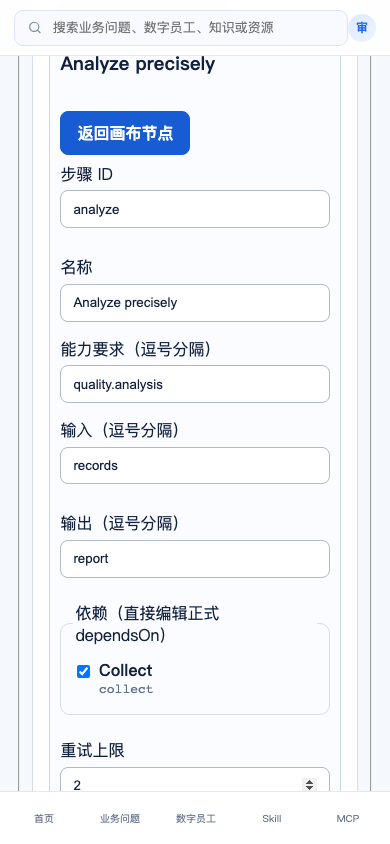
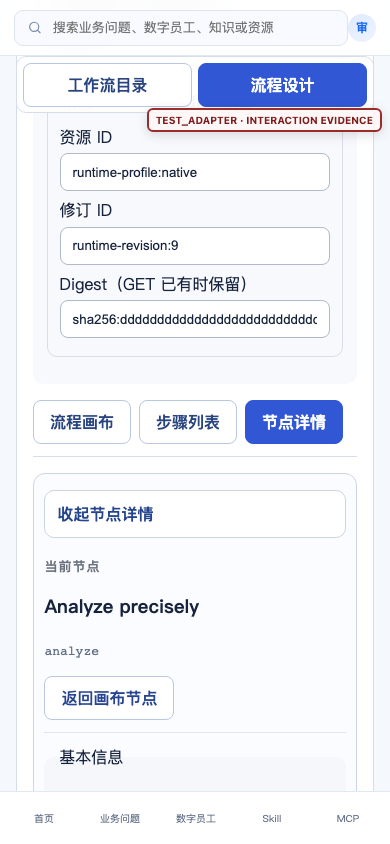
test(console): verify workflow designer responsive UX

Changed region(s): [[0.0308, 0.0616, 0.9846, 0.9242], [0.1231, 0.7085, 0.5538, 0.955]]

diff --git a/console/frontend/src/workflows/WorkflowWorkbenchPage.tsx b/console/frontend/src/workflows/WorkflowWorkbenchPage.tsx
@@ -57,7 +57,7 @@ export function WorkflowWorkbenchPage(){
     {!catalogCollapsed&&<><div className="workflow-catalog__filters"><label>搜索<input aria-label="搜索 Workflow Definition" value={query} placeholder="名称、说明或 ID" onChange={event=>{setQuery(event.target.value);setCatalogPage(0);preserveContext({query:event.target.value||null})}}/></label><label>生命周期<select aria-label="Workflow 生命周期筛选" value={filter} onChange={event=>{setFilter(event.target.value);setCatalogPage(0);preserveContext({lifecycle:event.target.value==="ALL"?null:event.target.value})}}><option value="ALL">全部</option><option value="DRAFT">草稿</option><option value="VALIDATED">已校验</option><option value="HUMAN_REVIEWED">已审核</option><option value="PUBLISHED">已发布</option></select></label></div>{filtered.length===0&&state==="READY"?<p>没有匹配的 Workflow Definition。</p>:<div className="workflow-catalog__items">{visibleDefinitions.map(item=>{const revision=item.definition.revisions.find(candidate=>candidate.revisionId===(item.definition.currentDraftRevisionId??item.definition.publishedRevisionId))??item.definition.revisions.at(-1);return <article className={`workflow-catalog__item${definition?.workflowDefinitionId===item.definition.workflowDefinitionId?" selected":""}`} key={item.definition.workflowDefinitionId}><button type="button" onClick={()=>requestSwitch(item.definition.workflowDefinitionId)}><span className="workflow-catalog__item-heading"><strong>{item.definition.name}</strong><span className="workflow-lifecycle-badge">{lifecycleLabel[item.definition.lifecycleState]??item.definition.lifecycleState}</span></span><span className="workflow-catalog__summary">摘要：{revision?.content.description||"暂无简介"}</span><small>适用修订 · {revision?.revisionId??"NO_REVISION"}</small></button><details><summary>查看技术 ID</summary><code>{item.definition.workflowDefinitionId}</code></details></article>})}</div>}<nav className="workflow-catalog-pagination" aria-label="Workflow 列表分页"><button type="button" disabled={currentCatalogPage<=0} onClick={()=>setCatalogPage(Math.max(0,currentCatalogPage-1))}>上一页</button><span>第 {currentCatalogPage+1} / {pageCount} 页</span><button type="button" disabled={currentCatalogPage>=pageCount-1} onClick={()=>setCatalogPage(Math.min(pageCount-1,currentCatalogPage+1))}>下一页</button></nav></>}
    </aside>
    <section className="workflow-workspace">
-    {builder?<section className="workflow-authoring" aria-label="Workflow authoring" aria-busy={savingEditor}><header className="workflow-authoring__header"><div><p className="eyebrow">草稿编辑</p><h2>{builderName||"新工作流"}</h2><p className={`workflow-dirty-state${hasUnsavedChanges?" is-dirty":""}`} role="status">{hasUnsavedChanges?"有未保存修改":"尚无未保存修改"}</p></div><button className="workflow-secondary-action" onClick={closeEditor}>关闭编写器并保留权威版本</button></header>{savingEditor&&<p role="status">正在保存当前编写器，提交内容已锁定。离开或关闭编写器不会取消后端保存。</p>}<fieldset disabled={savingEditor} aria-label="Workflow editor fields" onChangeCapture={event=>{if(editorLocked()){event.preventDefault();event.stopPropagation()}}} onClickCapture={event=>{if(editorLocked()){event.preventDefault();event.stopPropagation()}}}><label className="workflow-name-field">Workflow 名称<input value={builderName} maxLength={120} onChange={event=>{if(!editorLocked()){setBuilderName(event.target.value);setSaveNotice(null)}}}/></label><WorkflowBuilderPage content={builder} onChange={changeBuilder} isLocked={editorLocked} operationDirectory={operationDirectory} operationDirectoryState={operationDirectoryState} operationDirectoryReason={operationDirectoryReason}/><div className="module-actions workflow-savebar"><span>{hasUnsavedChanges?"准备保存当前完整定义":"可继续编辑或保存当前定义"}</span><button className="workflow-primary-action" disabled={state!=="READY"||!builderName.trim()} onClick={()=>void save()}>保存工作流草稿</button></div></fieldset></section>:!definition?<div className="empty-state workflow-workspace__empty"><h2>选择工作流</h2><p>从目录选择后，可查看步骤、精确资源绑定、修订与消费者。</p><button type="button" className="workflow-secondary-action workflow-mobile-catalog-shortcut" onClick={()=>setMobilePane("catalog")}>打开工作流目录</button></div>:<><header className="workflow-definition-header"><div><span className="workflow-lifecycle-badge">{lifecycleLabel[definition.lifecycleState]??definition.lifecycleState}<span className="workflow-technical-state">{definition.lifecycleState}</span></span><h2>{definition.name}</h2><p>{active?.content.description||"未提供用途说明"}</p></div><details><summary>查看 Workflow 技术 ID</summary><span className="technical-value">{definition.workflowDefinitionId}</span></details></header>
+    {builder?<section className="workflow-authoring" aria-label="Workflow authoring" aria-busy={savingEditor}><header className="workflow-authoring__header"><div><p className="eyebrow">草稿编辑</p><h2>{builderName||"新工作流"}</h2><p className={`workflow-dirty-state${hasUnsavedChanges?" is-dirty":""}`} role="status">{hasUnsavedChanges?"有未保存修改":"尚无未保存修改"}</p></div><div className="workflow-authoring__actions"><button className="workflow-primary-action workflow-mobile-save-action" disabled={state!=="READY"||!builderName.trim()} onClick={()=>void save()}>保存当前草稿</button><button className="workflow-secondary-action" onClick={closeEditor}>关闭编写器并保留权威版本</button></div></header>{savingEditor&&<p role="status">正在保存当前编写器，提交内容已锁定。离开或关闭编写器不会取消后端保存。</p>}<fieldset disabled={savingEditor} aria-label="Workflow editor fields" onChangeCapture={event=>{if(editorLocked()){event.preventDefault();event.stopPropagation()}}} onClickCapture={event=>{if(editorLocked()){event.preventDefault();event.stopPropagation()}}}><label className="workflow-name-field">Workflow 名称<input value={builderName} maxLength={120} onChange={event=>{if(!editorLocked()){setBuilderName(event.target.value);setSaveNotice(null)}}}/></label><WorkflowBuilderPage content={builder} onChange={changeBuilder} isLocked={editorLocked} operationDirectory={operationDirectory} operationDirectoryState={operationDirectoryState} operationDirectoryReason={operationDirectoryReason}/><div className="module-actions workflow-savebar"><span>{hasUnsavedChanges?"准备保存当前完整定义":"可继续编辑或保存当前定义"}</span><button className="workflow-primary-action" disabled={state!=="READY"||!builderName.trim()} onClick={()=>void save()}>保存工作流草稿</button></div></fieldset></section>:!definition?<div className="empty-state workflow-workspace__empty"><h2>选择工作流</h2><p>从目录选择后，可查看步骤、精确资源绑定、修订与消费者。</p><button type="button" className="workflow-secondary-action workflow-mobile-catalog-shortcut" onClick={()=>setMobilePane("catalog")}>打开工作流目录</button></div>:<><header className="workflow-definition-header"><div><span className="workflow-lifecycle-badge">{lifecycleLabel[definition.lifecycleState]??definition.lifecycleState}<span className="workflow-technical-state">{definition.lifecycleState}</span></span><h2>{definition.name}</h2><p>{active?.content.description||"未提供用途说明"}</p></div><details><summary>查看 Workflow 技术 ID</summary><span className="technical-value">{definition.workflowDefinitionId}</span></details></header>
     {active&&<section className="workflow-definition-body"><header className="workflow-section-heading"><div><p className="eyebrow">流程设计</p><h3>步骤与依赖 <small>Canonical DAG</small></h3></div>{draft&&<div className="module-actions workflow-lifecycle-actions"><button className="workflow-primary-action" disabled={state!=="READY"} onClick={startEdit}>编辑当前 Draft</button>{draft.state==="DRAFT"&&<button disabled={state!=="READY"||bindingValidationBlocked} aria-describedby={bindingValidationBlocked?"workflow-skill-validation-blocked":undefined} onClick={()=>void act(x=>validateWorkflowDefinition(x.workflowDefinitionId,x.aggregateVersion))}>Validate DAG and references</button>}{draft.state==="VALIDATED"&&<button disabled={state!=="READY"} onClick={()=>void act(x=>reviewWorkflowDefinition(x.workflowDefinitionId,x.aggregateVersion,draft.digest))}>Review exact Workflow digest</button>}{draft.state==="HUMAN_REVIEWED"&&review&&<button disabled={state!=="READY"} onClick={()=>void act(x=>publishWorkflowDefinition(x.workflowDefinitionId,x.aggregateVersion,draft.digest,review.reviewId))}>Publish immutable Workflow</button>}</div>}</header><WorkflowRevisionDesigner key={active.revisionId} content={active.content} selectedTaskId={selectedTask} onSelect={setSelectedTask} directory={operationDirectory} directoryState={operationDirectoryState}/>{selectedTask&&<p role="status">已选择 Definition 步骤：<span className="technical-value">{selectedTask}</span>。这不是运行状态。</p>}{draft?.state==="DRAFT"&&bindingValidationBlocked&&<p id="workflow-skill-validation-blocked" role="status">正式目录尚未返回与已保存 Skill revision、digest、operation 完全一致的合格身份。Draft 会保留，但页面不会把缺失或不合格 operation 提交为已验证。</p>}<details className="workflow-review-details"><summary>校验、绑定与修订详情</summary><section className="workflow-binding-review" aria-label="Workflow Skill operation binding review"><h3>Validate / review / publish 前绑定审查</h3>{active.content.tasks.map(task=><WorkflowSkillOperationBindingEditor key={task.taskId} task={task} readOnly directory={operationDirectory} directoryState={operationDirectoryState} directoryReason={operationDirectoryReason}/>)}<p>这里显示后端 GET 返回的实际绑定；历史无绑定版本保持未绑定，不会自动补写。</p></section><label>Exact revision digest<input readOnly value={active.digest}/></label><h4>生命周期证据</h4><p>Validation: {draft?.state!=="DRAFT"?"RECORDED":"REQUIRED"} · Human review: {review?.reviewId??"REQUIRED"} · Publication: {definition.publishedRevisionId??"NOT_PUBLISHED"}</p><p>绑定与发布不等于执行授权；本页不创建 Run、Task Run、Attempt、Plan 或 dispatch。</p></details></section>}
     {definition.publishedRevisionId&&!definition.currentDraftRevisionId&&<section className="workflow-successor-callout"><div><strong>此修订已发布并保持只读</strong><p>需要修改时，请创建正式后继草稿。</p></div><button className="workflow-primary-action" disabled={state!=="READY"} onClick={()=>void act(x=>successorWorkflowDefinition(x.workflowDefinitionId,x.aggregateVersion))}>Create Workflow successor</button></section>}<details className="workflow-history-details"><summary>关系、消费者与修订历史 <span>{definition.relationships.length} relationships · {definition.consumers.length} consumers</span></summary><ol>{definition.revisions.map(item=><li key={item.revisionId}>{item.state} · <span className="technical-value">{item.revisionId}</span> · digest {item.digest} · Skill operations {item.content.tasks.reduce((count,task)=>count+(task.skillOperationBindings?.length??0),0)}</li>)}</ol><WorkflowVersionComparison definition={definition}/><WorkflowTechnicalProjection projection={selected}/></details></>}
    </section>

diff --git a/console/frontend/src/styles/workflow-designer.css b/console/frontend/src/styles/workflow-designer.css
@@ -26,6 +26,8 @@
 .workflow-workbench__header p,
 .workflow-authoring__header p,
 .workflow-definition-header p { margin-block: .35rem; color: var(--workflow-muted); }
+.workflow-authoring__actions { display: flex; align-items: center; gap: .5rem; }
+.workflow-mobile-save-action { display: none; }
 .workflow-primary-action { color: #fff; border-color: #2449bd; background: #3157d5; font-weight: 700; }
 .workflow-secondary-action { color: #28458f; border-color: #b9c7e2; background: #fff; }
 
@@ -82,6 +84,8 @@
 .workflow-section-heading { align-items: center; }
 .workflow-section-heading h3 { margin-block: .2rem; }
 .workflow-section-heading small { color: #748097; font-weight: 500; }
+.workflow-lifecycle-actions button { color: #29457f; border-color: #b9c7e2; background: #fff; }
+.workflow-lifecycle-actions .workflow-primary-action { color: #fff; border-color: #2449bd; background: #3157d5; }
 .workflow-successor-callout { align-items: center; margin-top: 1rem; padding: 1rem; border-left: 4px solid #3157d5; border-radius: 8px; background: #eef3ff; }
 .workflow-successor-callout p { margin: .3rem 0 0; color: var(--workflow-muted); }
 
@@ -144,6 +148,7 @@
   padding-bottom: .75rem;
   border-bottom: 1px solid #d7deea;
 }
+.workflow-designer__tabs button { color: #29457f; border-color: #b9c7e2; background: #fff; }
 
 .workflow-designer__tabs [aria-selected="true"] {
   color: #fff;
@@ -185,7 +190,7 @@
 }
 .workflow-designer__inspector.is-collapsed { display: none; }
 
-.workflow-designer__close { float: right; margin: 0 0 .5rem .5rem; }
+.workflow-designer__close { float: right; margin: 0 0 .5rem .5rem; color: #24458c; border-color: #b8c6df; background: #fff; font-weight: 700; }
 .workflow-designer__show-inspector { max-width: 100%; margin-bottom: .6rem; color: #28458f; background: #edf3ff; }
 
 .workflow-designer__canvas {
@@ -200,7 +205,7 @@
 .workflow-designer__tool-group,
 .workflow-designer__search-group { display: flex; align-items: center; gap: .25rem; }
 .workflow-designer__zoom-group { overflow: hidden; border: 1px solid #c8d2e3; border-radius: 8px; }
-.workflow-designer__zoom-group button { min-width: 2.2rem; padding: .4rem .55rem; border: 0; border-radius: 0; background: #f8faff; }
+.workflow-designer__zoom-group button { min-width: 2.2rem; padding: .4rem .55rem; border: 0; border-radius: 0; color: #223b72; background: #f8faff; }
 .workflow-designer__zoom-group .workflow-designer__zoom-value { min-width: 3.7rem; border-inline: 1px solid #d7deea; font-variant-numeric: tabular-nums; }
 .workflow-designer__tool-group button,
 .workflow-designer__search-group > button { padding: .42rem .55rem; color: #334d82; border-color: #c8d2e3; background: #fff; font-size: .78rem; }
@@ -287,6 +292,9 @@
 .workflow-designer__resource-list article { min-width: 0; padding: .75rem; border-radius: 8px; background: #f4f7fc; }
 .workflow-designer__resource-list article > header { display: flex; align-items: flex-start; justify-content: space-between; gap: .5rem; }
 .workflow-designer__resource-list article > header div { display: grid; gap: .2rem; }
+.workflow-designer__readonly-group dl { display: grid; gap: .45rem; }
+.workflow-designer__readonly-group dl > div { display: grid; grid-template-columns: minmax(5rem, .7fr) minmax(0, 1.3fr); gap: .5rem; }
+.workflow-designer__readonly-group dd { margin: 0; overflow-wrap: anywhere; }
 .workflow-designer__resource-list article > .binding-status { float: right; }
 .workflow-designer__resources dl { display: grid; gap: .45rem; }
 .workflow-designer__resources dl > div { min-width: 0; }
@@ -323,10 +331,14 @@
   .workflow-successor-callout { flex-direction: column; }
   .workflow-workbench__header-actions,
   .workflow-workbench__header-actions button,
+  .workflow-authoring__actions,
   .workflow-authoring__header button { width: 100%; }
+  .workflow-authoring__actions { flex-direction: column; }
+  .workflow-mobile-save-action { display: inline-flex; justify-content: center; }
   .workflow-quick-create { display: none; }
   .workflow-operation-directory-status { margin-bottom: .5rem; }
-  .workflow-mobile-pane-tabs { position: sticky; z-index: 12; top: 0; display: grid; grid-template-columns: 1fr 1fr; gap: .35rem; margin: .5rem 0; padding: .35rem; border: 1px solid #d7deea; border-radius: 10px; background: rgb(255 255 255 / 96%); }
+  .workflow-mobile-pane-tabs { position: sticky; z-index: 12; top: 56px; display: grid; grid-template-columns: 1fr 1fr; gap: .35rem; margin: .5rem 0; padding: .35rem; border: 1px solid #d7deea; border-radius: 10px; background: rgb(255 255 255 / 96%); }
+  .workflow-mobile-pane-tabs button { color: #29457f; border-color: #b9c7e2; background: #fff; }
   .workflow-mobile-pane-tabs button[aria-selected="true"] { color: #fff; border-color: var(--workflow-accent); background: var(--workflow-accent); }
   .resource-management .workflow-catalog-layout,
   .resource-management .workflow-catalog-layout--collapsed { display: block; margin-top: .5rem; }
@@ -334,7 +346,7 @@
   .workflow-catalog-layout[data-mobile-pane="catalog"] > .workflow-workspace,
   .workflow-catalog-layout[data-mobile-pane="workspace"] > aside { display: none; }
   .workflow-mobile-catalog-shortcut { display: inline-flex; justify-self: center; }
-  .workflow-savebar { bottom: calc(60px + env(safe-area-inset-bottom)); flex-direction: column; align-items: stretch; margin-bottom: 0; }
+  .workflow-savebar { position: static; flex-direction: column; align-items: stretch; margin-bottom: 0; box-shadow: none; backdrop-filter: none; }
   .workflow-savebar button { width: 100%; }
   .workflow-authoring > fieldset { padding-bottom: 5rem; }
   .workflow-designer > header,

diff --git a/console/frontend/tests/e2e/workflow-visual-designer.spec.ts b/console/frontend/tests/e2e/workflow-visual-designer.spec.ts
@@ -1,7 +1,7 @@
 import {expect,test,type Page} from "@playwright/test";
 
 const digest=(value:string)=>`sha256:${value.repeat(64)}`;
-const markTestAdapter=(page:Page)=>page.evaluate(()=>{if(document.getElementById("s5-311-test-adapter"))return;const badge=document.createElement("div");badge.id="s5-311-test-adapter";badge.textContent="TEST_ADAPTER · INTERACTION EVIDENCE";badge.style.cssText="position:fixed;z-index:99999;right:12px;top:72px;padding:6px 10px;border:2px solid #9b2c2c;border-radius:6px;color:#7f1d1d;background:#fff7f7;font:700 12px system-ui;box-shadow:0 3px 12px #0002";document.body.appendChild(badge)});
+const markTestAdapter=(page:Page)=>page.evaluate(()=>{let badge=document.getElementById("s5-311-test-adapter");if(!badge){badge=document.createElement("div");badge.id="s5-311-test-adapter";badge.textContent="TEST_ADAPTER · INTERACTION EVIDENCE";document.body.appendChild(badge)}badge.style.cssText=`position:fixed;z-index:99999;right:8px;${innerWidth<=720?"top:108px":"top:58px"};padding:4px 7px;border:2px solid #9b2c2c;border-radius:6px;color:#7f1d1d;background:#fff7f7e8;font:700 10px system-ui;box-shadow:0 3px 12px #0002`});
 
 test("edits a dependency-derived node without changing sibling content or exact bindings",async({page})=>{
   const binding={skillId:"skill-definition:quality",skillRevisionId:"skill-revision:7",skillDigest:digest("a"),operation:"quality.read"};
@@ -27,7 +27,7 @@ test("edits a dependency-derived node without changing sibling content or exact 
   await page.goto("/workflow-definitions");
   await page.getByRole("button",{name:/Visual Workflow/}).click();
   await expect(page.getByLabel("Workflow 流程画布")).toBeVisible();
-  await expect(page.getByLabel("Workflow 节点详情")).toContainText("这是 Definition 配置，不是运行进度");
+  await expect(page.getByLabel("Workflow 节点详情")).toContainText("这里不是运行进度");
   const collectNode=page.getByRole("button",{name:"查看步骤 Collect"});
   await collectNode.focus();await page.keyboard.press("Enter");
   await expect(page.getByLabel("步骤 collect 的资源详情")).toContainText("Quality Skill");
@@ -49,6 +49,7 @@ test("edits a dependency-derived node without changing sibling content or exact 
   await page.getByRole("button",{name:"编辑当前 Draft"}).click();
   await page.getByRole("button",{name:"编辑步骤 Collect"}).click();
   await page.setViewportSize({width:390,height:844});
+  await page.getByLabel("Workflow authoring").getByRole("tab",{name:"节点详情"}).click();
   const narrowSkillSelect=page.getByLabel("步骤 collect 选择 Skill",{exact:true});
   await narrowSkillSelect.focus();await expect(narrowSkillSelect).toBeFocused();
   await page.setViewportSize({width:1440,height:1000});
@@ -79,7 +80,9 @@ test("edits a dependency-derived node without changing sibling content or exact 
   await authoring.getByLabel("等价 Workflow 步骤列表").getByRole("button",{name:/Analyze precisely/}).click();
   await expect(page.getByLabel("步骤 analyze 配置")).toBeVisible();
   expect(await page.evaluate(()=>document.documentElement.scrollWidth<=document.documentElement.clientWidth)).toBe(true);
-  if(process.env.S5_311_SCREENSHOT_DIR){await markTestAdapter(page);await page.getByLabel("步骤 analyze 配置").scrollIntoViewIfNeeded();await page.screenshot({path:`${process.env.S5_311_SCREENSHOT_DIR}/workflow-designer-390px.png`})}
+  if(process.env.S5_311_SCREENSHOT_DIR){await markTestAdapter(page);await page.locator(".workflow-mobile-pane-tabs").evaluate(element=>{let top=0,current:HTMLElement|null=element as HTMLElement;while(current){top+=current.offsetTop;current=current.offsetParent as HTMLElement|null}window.scrollTo({top:Math.max(0,top-56)})});await page.screenshot({path:`${process.env.S5_311_SCREENSHOT_DIR}/workflow-designer-390px.png`})}
+  const mobileBarsDoNotOverlap=await page.evaluate(()=>{const save=document.querySelector(".workflow-savebar")?.getBoundingClientRect(),nav=document.querySelector(".px-mobile-nav")?.getBoundingClientRect();return !save||!nav||save.bottom<=nav.top||save.top>=nav.bottom});
+  expect(mobileBarsDoNotOverlap).toBe(true);
 });
 
 test("requires an explicit decision before switching away from unsaved authoring",async({page})=>{
@@ -94,6 +97,7 @@ test("requires an explicit decision before switching away from unsaved authoring
   await warning.getByRole("button",{name:"继续编辑当前 Workflow"}).click();await expect(page.getByLabel("用途说明")).toHaveValue("unsaved authoring");
   await page.getByRole("button",{name:/Second Workflow/}).click();await page.getByRole("button",{name:"放弃未保存输入并切换"}).click();
   await expect(page.getByRole("heading",{name:"Second Workflow",exact:true})).toBeVisible();
+  await page.setViewportSize({width:390,height:844});
   await expect(page.getByRole("tab",{name:"流程设计"})).toHaveAttribute("aria-selected","true");
 });
 

diff --git a/console/frontend/src/workflows/WorkflowRevisionDesigner.tsx b/console/frontend/src/workflows/WorkflowRevisionDesigner.tsx
@@ -13,7 +13,7 @@ export function WorkflowRevisionDesigner({content,selectedTaskId,onSelect,direct
     <div className="workflow-designer__tabs" role="tablist" aria-label="Workflow revision views"><button type="button" role="tab" aria-selected={view==="canvas"} onClick={()=>setView("canvas")}>流程画布</button><button type="button" role="tab" aria-selected={view==="list"} onClick={()=>setView("list")}>步骤列表</button><button type="button" role="tab" aria-selected={view==="config"} disabled={!selected} onClick={()=>setView("config")}>节点详情</button></div>
     <div className={`workflow-designer__workspace${selected?"":" workflow-designer__workspace--inspector-collapsed"}`}>
       <div className={`workflow-designer__primary ${view==="config"?"workflow-designer__mobile-hidden":""}`}>{view!=="list"?<WorkflowCanvas tasks={content.tasks} selectedTaskId={selectedTaskId} onSelect={select} readOnly/>:<section className="workflow-designer__list" aria-label="等价 Workflow 步骤列表"><ol>{content.tasks.map(task=><li key={task.taskId}><button type="button" aria-pressed={selectedTaskId===task.taskId} onClick={()=>select(task.taskId)}><strong>{task.name}</strong><code>{task.taskId}</code><span>依赖：{task.dependsOn.join("、")||"无"}</span><span>{task.references.length} 个精确资源 · {task.skillOperationBindings?.length??0} 个 Skill operation · 重试 {task.retryLimit} · 超时 {task.timeoutSeconds}s · {task.failurePolicy}</span></button></li>)}</ol></section>}</div>
-      <aside className={`workflow-designer__inspector${selected?"":" is-collapsed"}${view==="config"?" is-active":""}`} aria-label="Workflow 节点详情">{selected?<><button type="button" className="workflow-designer__close" onClick={()=>{const id=selected.taskId;onSelect(null);setView("canvas");requestAnimationFrame(()=>document.querySelector<HTMLButtonElement>(`[data-workflow-node="${CSS.escape(`revision:${id}`)}"]`)?.focus())}}>收起节点详情</button><header className="workflow-designer__readonly-node-header"><p className="eyebrow">节点详情 · 只读</p><h4>{selected.name}</h4><code>{selected.taskId}</code></header><section className="workflow-designer__readonly-group"><h5>基本信息与输入输出</h5><dl><div><dt>输入</dt><dd>{selected.inputs.join(", ")||"无"}</dd></div><div><dt>输出</dt><dd>{selected.outputs.join(", ")||"无"}</dd></div><div><dt>能力标识</dt><dd>{selected.capabilityRequirements.join(", ")||"无"}</dd></div></dl></section><section className="workflow-designer__readonly-group"><h5>依赖与执行策略</h5><dl><div><dt>依赖</dt><dd>{selected.dependsOn.join(", ")||"无"}</dd></div><div><dt>超时 / 重试</dt><dd>{selected.timeoutSeconds}s / {selected.retryLimit}</dd></div><div><dt>失败策略</dt><dd>{selected.failurePolicy}</dd></div></dl></section><WorkflowResourceDetails task={selected} runtimeProfile={content.runtimeProfile} directory={directory} directoryState={directoryState}/></>:null}</aside>
+      <aside className={`workflow-designer__inspector${selected?"":" is-collapsed"}${view==="config"?" is-active":""}`} aria-label="Workflow 节点详情">{selected?<><button type="button" className="workflow-designer__close" onClick={()=>{const id=selected.taskId;onSelect(null);setView("canvas");requestAnimationFrame(()=>document.querySelector<HTMLButtonElement>(`[data-workflow-node="${CSS.escape(`revision:${id}`)}"]`)?.focus())}}>收起节点详情</button><header className="workflow-designer__readonly-node-header"><p className="eyebrow">节点详情 · 只读</p><h4>{selected.name}</h4><code>{selected.taskId}</code></header><section className="workflow-designer__readonly-group"><h5>基本信息与输入输出</h5><dl><div><dt>输入</dt><dd>{selected.inputs.join(", ")||"无"}</dd></div><div><dt>输出</dt><dd>{selected.outputs.join(", ")||"无"}</dd></div><div><dt>能力标识</dt><dd>{selected.capabilityRequirements.join(", ")||"无"}</dd></div></dl></section><section className="workflow-designer__readonly-group"><h5>依赖与执行策略</h5><dl><div><dt>依赖</dt><dd>{selected.dependsOn.join(", ")||"无"}</dd></div><div><dt>超时 / 重试</dt><dd>{selected.timeoutSeconds}s / {selected.retryLimit}</dd></div><div><dt>失败策略</dt><dd>{selected.failurePolicy}</dd></div></dl></section><WorkflowResourceDetails task={selected} runtimeProfile={content.runtimeProfile} directory={directory} directoryState={directoryState}/></>:<p>请选择节点查看 Definition 配置；这里不是运行进度。</p>}</aside>
     </div>
   </section>;
 }
